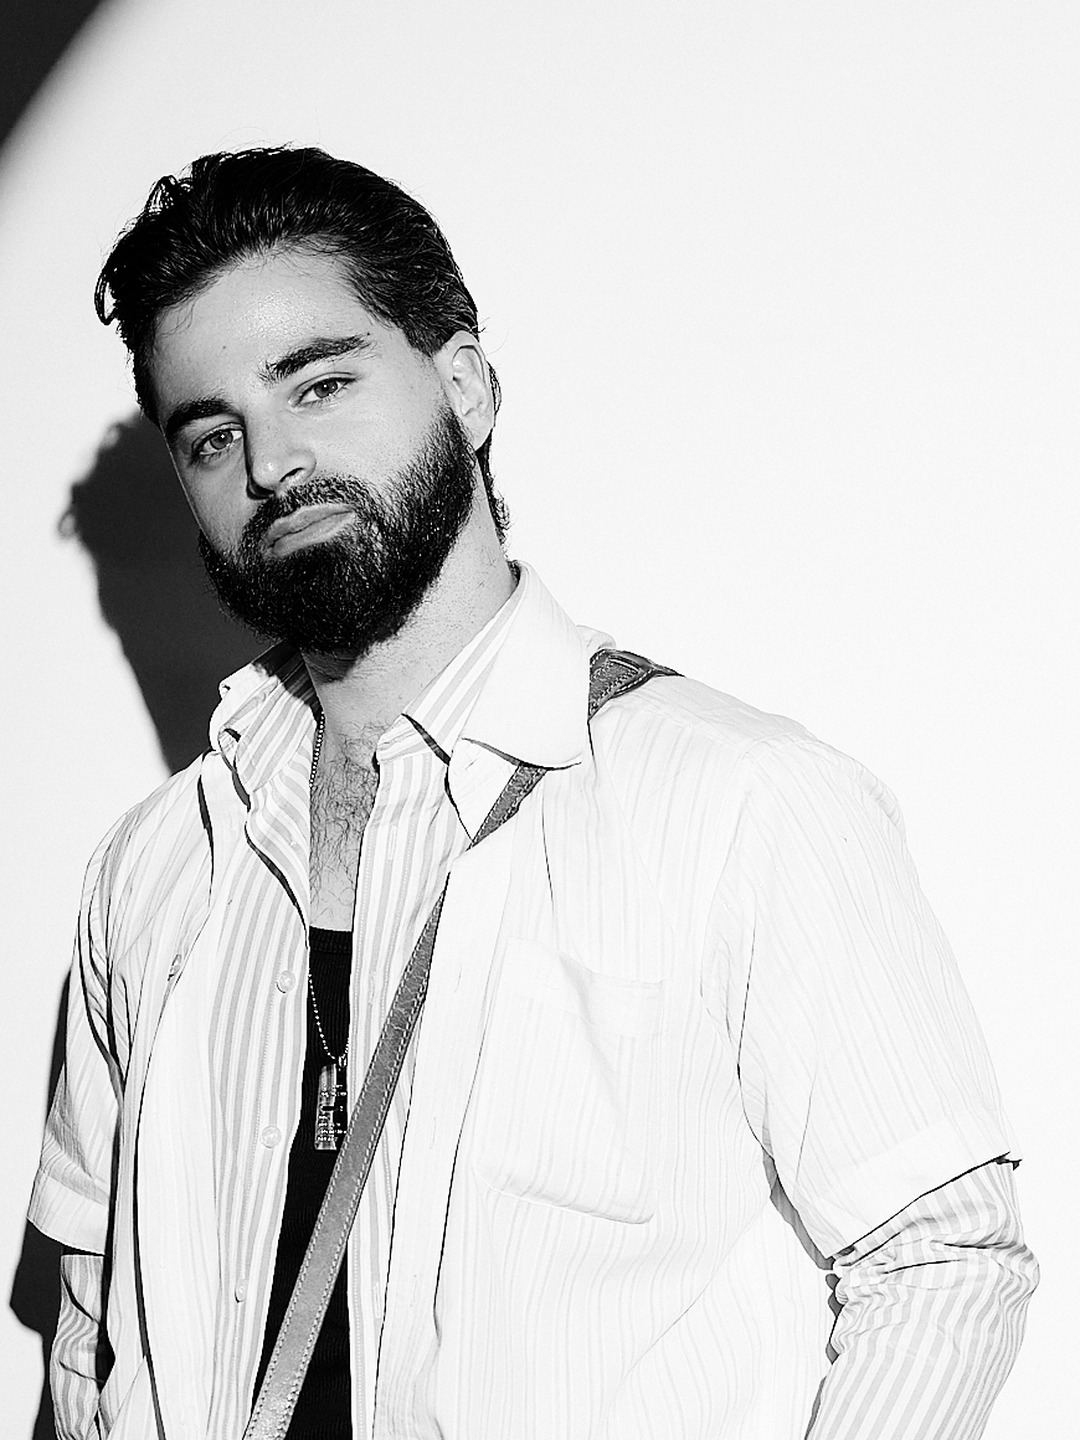
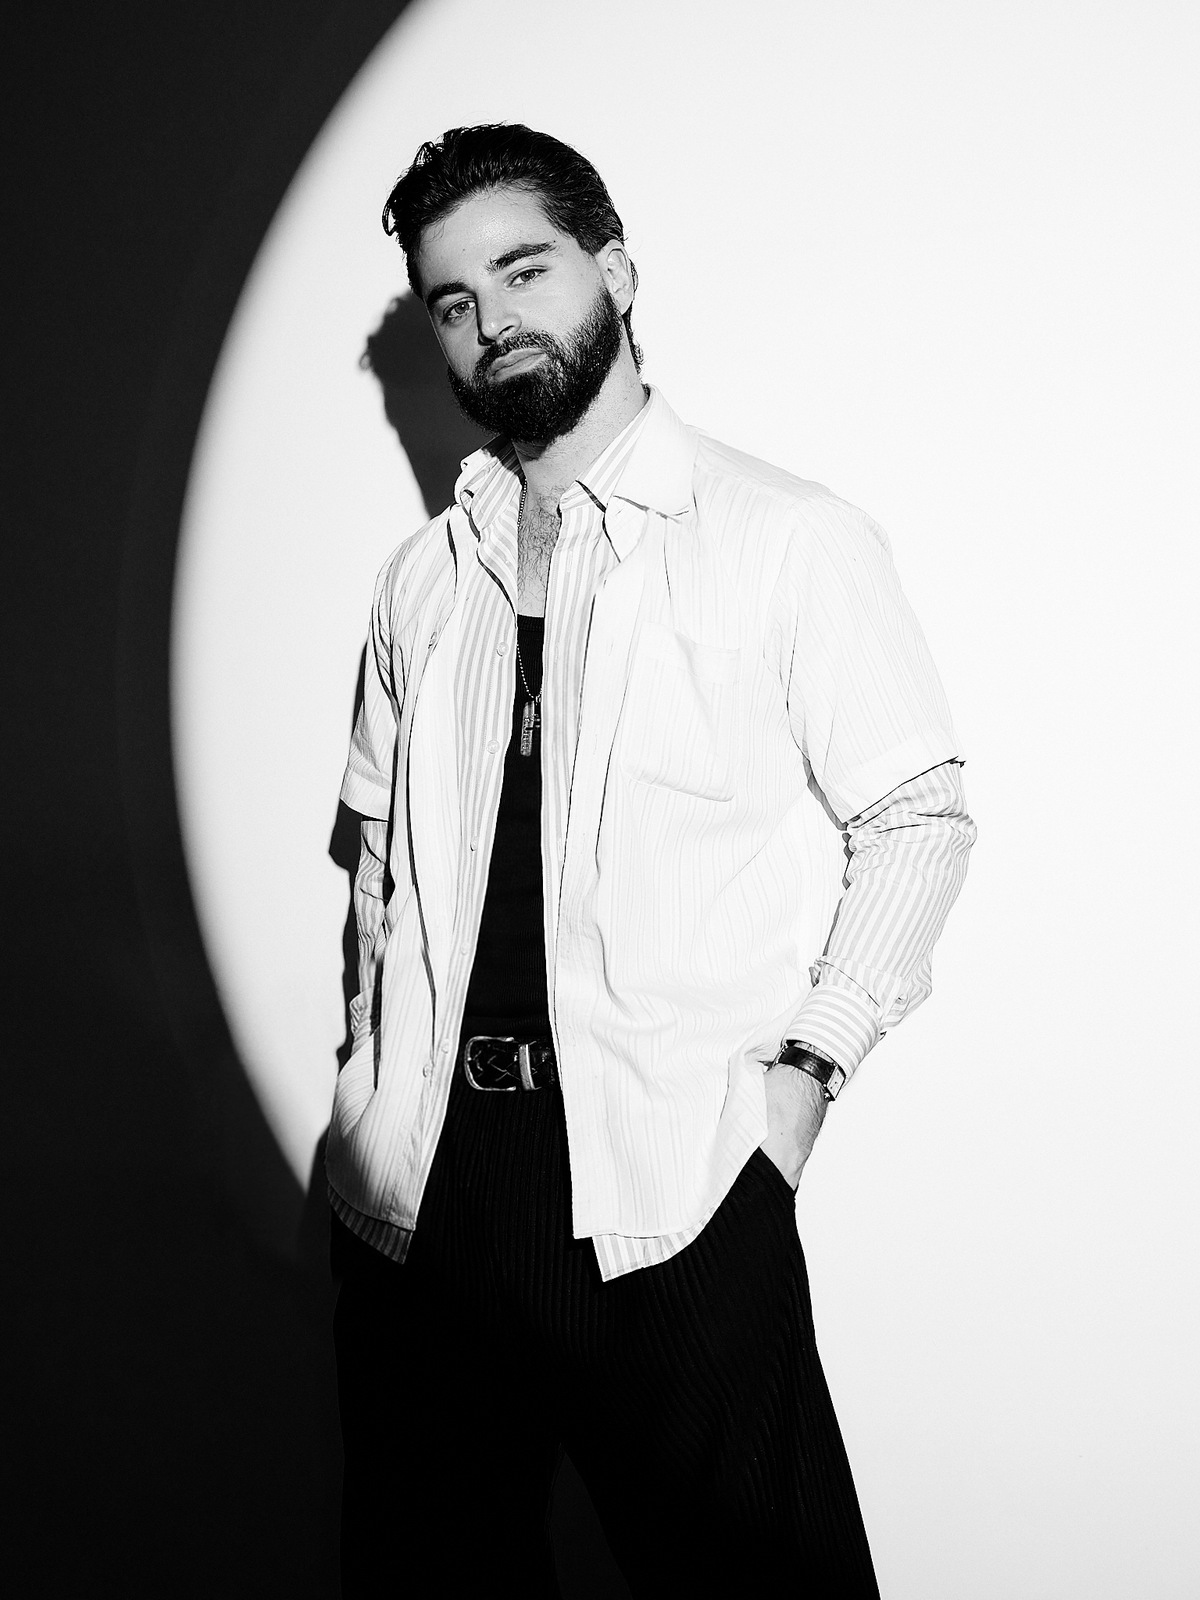
La maison : portrait de Pedro Tobia

diff --git a/fr/la-maison/index.html b/fr/la-maison/index.html
@@ -29,7 +29,7 @@
 <link rel="icon" href="../../assets/logo.svg?v=bad0aa28">
 <link rel="preload" href="../../assets/polices/source-sans-3-400-latin.woff2" as="font" type="font/woff2" crossorigin>
 <link rel="stylesheet" href="../../assets/polices.css?v=2d999d05">
-<link rel="stylesheet" href="../../assets/site.css?v=ae3f5584">
+<link rel="stylesheet" href="../../assets/site.css?v=fceecd6b">
 <script>document.documentElement.classList.add('js')</script>
 <script type="application/ld+json">{"@context": "https://schema.org", "@type": "BreadcrumbList", "itemListElement": [{"@type": "ListItem", "position": 1, "name": "DEGNA", "item": "https://degna.ca/fr/"}, {"@type": "ListItem", "position": 2, "name": "La maison", "item": "https://degna.ca/fr/la-maison/"}]}</script>
 </head>
@@ -53,6 +53,7 @@
 <section class="band band--tight">
   <div class="inner inner--narrow">
     <h1>DEGNA</h1>
+    <figure class="portrait"><img src="../../assets/media/pedro-portrait.jpg?v=02b47dc5" alt="Pedro Tobia, fondateur et directeur artistique de DEGNA" width="1200" height="1600" loading="eager"></figure>
     <div class="read" style="margin-top:1.2rem"><p>Pedro Tobia est directeur artistique pour plusieurs maisons de vêtement, dont la collection RADICE de Maison Godefroi, présentée au défilé L’Héritage à Montréal en septembre 2026. DEGNA est la maison qu’il a fondée pour exposer sa propre vision de la femme.</p><p>Une vision faite de collections intemporelles : des pièces qui suivent la femme qui les porte, pas la saison. La silhouette DEGNA part d’une définition de l’élégance, et de l’héritage que chaque femme laisse derrière elle, à chacun de ses passages. <em>Degna</em>, en italien, veut dire digne.</p></div>
     <blockquote class="citation"><p>Le style est le reflet de votre personnalité : notre silhouette dit qui nous sommes avant même de parler. J’aime l’idée de laisser une trace élégante, un héritage, partout où je passe et dans chacune de mes rencontres.</p><footer>Pedro Tobia, fondateur et directeur artistique</footer></blockquote>
     <div class="read"><p>Sur chaque pièce DEGNA, il y a une perle. C’est la touche d’élégance : le dernier geste, celui qu’on remarque sans qu’il s’impose. Une perle naît lentement, couche après couche, autour d’un simple grain : c’est l’image de l’héritage qu’une femme laisse derrière elle. La perle restera, de collection en collection : c’est le fil de la maison.</p><p>Série Un est taillée dans une même maille côtelée, à contrastes et boutons perle, en pièces pensées pour se porter ensemble.</p></div>

diff --git a/fr/robe-courte-maille-col-contraste/index.html b/fr/robe-courte-maille-col-contraste/index.html
@@ -30,7 +30,7 @@
 <link rel="preload" href="../../assets/polices/source-sans-3-400-latin.woff2" as="font" type="font/woff2" crossorigin>
 <link rel="preload" as="image" href="../../assets/media/front.jpg?v=0d828623" fetchpriority="high">
 <link rel="stylesheet" href="../../assets/polices.css?v=2d999d05">
-<link rel="stylesheet" href="../../assets/site.css?v=ae3f5584">
+<link rel="stylesheet" href="../../assets/site.css?v=fceecd6b">
 <script>document.documentElement.classList.add('js')</script>
 <script type="application/ld+json">{"@context": "https://schema.org", "@type": "BreadcrumbList", "itemListElement": [{"@type": "ListItem", "position": 1, "name": "DEGNA", "item": "https://degna.ca/fr/"}, {"@type": "ListItem", "position": 2, "name": "Robe courte en maille à col contrasté", "item": "https://degna.ca/fr/robe-courte-maille-col-contraste/"}]}</script>
 <script type="application/ld+json">{"@context": "https://schema.org", "@type": "Product", "name": "Robe courte en maille à col contrasté", "description": "Robe courte ajustée en maille noire, col pointu blanc, patte à boutons perle et jupe à plis couchés. La côte est composée de 87 % de rayonne et de 13 % de polyester, sans élasthanne : l’aisance vient de la côte elle-même. Près du corps à la poitrine et aux hanches, la jupe s’ouvre légèrement sous la ceinture blanche. Longueur courte : elle tombe à mi-cuisse.", "brand": {"@type": "Brand", "name": "DEGNA"}, "color": "Black / White", "material": "87% rayon, 13% polyester", "size": ["XS", "S", "M", "L", "XL"], "image": ["https://degna.ca/assets/media/front.jpg?v=0d828623", "https://degna.ca/assets/media/three-quarter.jpg?v=70482830", "https://degna.ca/assets/media/back.jpg?v=174fd360"], "offers": {"@type": "Offer", "url": "https://degna.ca/fr/robe-courte-maille-col-contraste/", "price": "495.00", "priceCurrency": "USD", "availability": "https://schema.org/InStock", "itemCondition": "https://schema.org/NewCondition", "shippingDetails": {"@type": "OfferShippingDetails", "shippingRate": {"@type": "MonetaryAmount", "value": "0", "currency": "USD"}, "shippingDestination": [{"@type": "DefinedRegion", "addressCountry": "US"}, {"@type": "DefinedRegion", "addressCountry": "CA"}]}, "hasMerchantReturnPolicy": {"@type": "MerchantReturnPolicy", "applicableCountry": ["US", "CA"], "returnPolicyCategory": "https://schema.org/MerchantReturnFiniteReturnWindow", "merchantReturnDays": 30, "returnFees": "https://schema.org/FreeReturn", "refundType": "https://schema.org/FullRefund", "returnMethod": "https://schema.org/ReturnByMail"}}}</script>

diff --git a/es/vestido-corto-punto-cuello-contraste/index.html b/es/vestido-corto-punto-cuello-contraste/index.html
@@ -30,7 +30,7 @@
 <link rel="preload" href="../../assets/polices/source-sans-3-400-latin.woff2" as="font" type="font/woff2" crossorigin>
 <link rel="preload" as="image" href="../../assets/media/front.jpg?v=0d828623" fetchpriority="high">
 <link rel="stylesheet" href="../../assets/polices.css?v=2d999d05">
-<link rel="stylesheet" href="../../assets/site.css?v=ae3f5584">
+<link rel="stylesheet" href="../../assets/site.css?v=fceecd6b">
 <script>document.documentElement.classList.add('js')</script>
 <script type="application/ld+json">{"@context": "https://schema.org", "@type": "BreadcrumbList", "itemListElement": [{"@type": "ListItem", "position": 1, "name": "DEGNA", "item": "https://degna.ca/es/"}, {"@type": "ListItem", "position": 2, "name": "Vestido corto de punto con cuello en contraste", "item": "https://degna.ca/es/vestido-corto-punto-cuello-contraste/"}]}</script>
 <script type="application/ld+json">{"@context": "https://schema.org", "@type": "Product", "name": "Vestido corto de punto con cuello en contraste", "description": "Vestido corto ajustado de punto negro, con cuello blanco en punta, tapeta de botones perla y falda de pliegues planos. El canalé es 87 % rayón y 13 % poliéster, sin elastano: la holgura viene del propio canalé. Ceñido en busto y cadera, la falda se abre ligeramente bajo la cintura blanca. Largo corto: cae a medio muslo.", "brand": {"@type": "Brand", "name": "DEGNA"}, "color": "Black / White", "material": "87% rayon, 13% polyester", "size": ["XS", "S", "M", "L", "XL"], "image": ["https://degna.ca/assets/media/front.jpg?v=0d828623", "https://degna.ca/assets/media/three-quarter.jpg?v=70482830", "https://degna.ca/assets/media/back.jpg?v=174fd360"], "offers": {"@type": "Offer", "url": "https://degna.ca/es/vestido-corto-punto-cuello-contraste/", "price": "495.00", "priceCurrency": "USD", "availability": "https://schema.org/InStock", "itemCondition": "https://schema.org/NewCondition", "shippingDetails": {"@type": "OfferShippingDetails", "shippingRate": {"@type": "MonetaryAmount", "value": "0", "currency": "USD"}, "shippingDestination": [{"@type": "DefinedRegion", "addressCountry": "US"}, {"@type": "DefinedRegion", "addressCountry": "CA"}]}, "hasMerchantReturnPolicy": {"@type": "MerchantReturnPolicy", "applicableCountry": ["US", "CA"], "returnPolicyCategory": "https://schema.org/MerchantReturnFiniteReturnWindow", "merchantReturnDays": 30, "returnFees": "https://schema.org/FreeReturn", "refundType": "https://schema.org/FullRefund", "returnMethod": "https://schema.org/ReturnByMail"}}}</script>

diff --git a/en/contrast-collar-knit-mini-dress/index.html b/en/contrast-collar-knit-mini-dress/index.html
@@ -30,7 +30,7 @@
 <link rel="preload" href="../../assets/polices/source-sans-3-400-latin.woff2" as="font" type="font/woff2" crossorigin>
 <link rel="preload" as="image" href="../../assets/media/front.jpg?v=0d828623" fetchpriority="high">
 <link rel="stylesheet" href="../../assets/polices.css?v=2d999d05">
-<link rel="stylesheet" href="../../assets/site.css?v=ae3f5584">
+<link rel="stylesheet" href="../../assets/site.css?v=fceecd6b">
 <script>document.documentElement.classList.add('js')</script>
 <script type="application/ld+json">{"@context": "https://schema.org", "@type": "BreadcrumbList", "itemListElement": [{"@type": "ListItem", "position": 1, "name": "DEGNA", "item": "https://degna.ca/en/"}, {"@type": "ListItem", "position": 2, "name": "Contrast-Collar Knit Mini Dress", "item": "https://degna.ca/en/contrast-collar-knit-mini-dress/"}]}</script>
 <script type="application/ld+json">{"@context": "https://schema.org", "@type": "Product", "name": "Contrast-Collar Knit Mini Dress", "description": "A fitted black knit mini dress with a white pointed collar, a pearl-button placket and a knife-pleated skirt. The rib is 87% rayon and 13% polyester, with no elastane: the give comes from the rib itself. Close at the bust and hip, the skirt opens slightly below the white waistband. Short length: it falls at mid-thigh.", "brand": {"@type": "Brand", "name": "DEGNA"}, "color": "Black / White", "material": "87% rayon, 13% polyester", "size": ["XS", "S", "M", "L", "XL"], "image": ["https://degna.ca/assets/media/front.jpg?v=0d828623", "https://degna.ca/assets/media/three-quarter.jpg?v=70482830", "https://degna.ca/assets/media/back.jpg?v=174fd360"], "offers": {"@type": "Offer", "url": "https://degna.ca/en/contrast-collar-knit-mini-dress/", "price": "495.00", "priceCurrency": "USD", "availability": "https://schema.org/InStock", "itemCondition": "https://schema.org/NewCondition", "shippingDetails": {"@type": "OfferShippingDetails", "shippingRate": {"@type": "MonetaryAmount", "value": "0", "currency": "USD"}, "shippingDestination": [{"@type": "DefinedRegion", "addressCountry": "US"}, {"@type": "DefinedRegion", "addressCountry": "CA"}]}, "hasMerchantReturnPolicy": {"@type": "MerchantReturnPolicy", "applicableCountry": ["US", "CA"], "returnPolicyCategory": "https://schema.org/MerchantReturnFiniteReturnWindow", "merchantReturnDays": 30, "returnFees": "https://schema.org/FreeReturn", "refundType": "https://schema.org/FullRefund", "returnMethod": "https://schema.org/ReturnByMail"}}}</script>

diff --git a/es/la-casa/index.html b/es/la-casa/index.html
@@ -29,7 +29,7 @@
 <link rel="icon" href="../../assets/logo.svg?v=bad0aa28">
 <link rel="preload" href="../../assets/polices/source-sans-3-400-latin.woff2" as="font" type="font/woff2" crossorigin>
 <link rel="stylesheet" href="../../assets/polices.css?v=2d999d05">
-<link rel="stylesheet" href="../../assets/site.css?v=ae3f5584">
+<link rel="stylesheet" href="../../assets/site.css?v=fceecd6b">
 <script>document.documentElement.classList.add('js')</script>
 <script type="application/ld+json">{"@context": "https://schema.org", "@type": "BreadcrumbList", "itemListElement": [{"@type": "ListItem", "position": 1, "name": "DEGNA", "item": "https://degna.ca/es/"}, {"@type": "ListItem", "position": 2, "name": "La casa", "item": "https://degna.ca/es/la-casa/"}]}</script>
 </head>
@@ -53,6 +53,7 @@
 <section class="band band--tight">
   <div class="inner inner--narrow">
     <h1>DEGNA</h1>
+    <figure class="portrait"><img src="../../assets/media/pedro-portrait.jpg?v=02b47dc5" alt="Pedro Tobia, fundador y director artístico de DEGNA" width="1200" height="1600" loading="eager"></figure>
     <div class="read" style="margin-top:1.2rem"><p>Pedro Tobia es director artístico de varias casas de moda, entre ellas la colección RADICE de Maison Godefroi, presentada en el desfile Héritage en Montreal en septiembre de 2026. DEGNA es la casa que fundó para mostrar su propia visión de la mujer.</p><p>Una visión hecha de colecciones atemporales: piezas que siguen a la mujer que las lleva, no a la temporada. La silueta DEGNA parte de una idea de la elegancia, y del legado que cada mujer deja tras de sí, en cada uno de sus pasos. <em>Degna</em>, en italiano, significa digna.</p></div>
     <blockquote class="citation"><p>El estilo es el reflejo de su personalidad: nuestra silueta dice quiénes somos antes de hablar. Me gusta la idea de dejar una huella elegante, un legado, allí donde paso y en cada uno de mis encuentros.</p><footer>Pedro Tobia, fundador y director artístico</footer></blockquote>
     <div class="read"><p>En cada pieza DEGNA hay una perla. Es el toque de elegancia: el último gesto, el que se nota sin imponerse. Una perla nace despacio, capa a capa, alrededor de un simple grano: es la imagen del legado que una mujer deja tras de sí. La perla permanecerá, de colección en colección: es el hilo de la casa.</p><p>Série Un está cortada en un mismo punto acanalado, con contrastes y botones perla, en piezas pensadas para llevarse juntas.</p></div>

diff --git a/en/about/index.html b/en/about/index.html
@@ -29,7 +29,7 @@
 <link rel="icon" href="../../assets/logo.svg?v=bad0aa28">
 <link rel="preload" href="../../assets/polices/source-sans-3-400-latin.woff2" as="font" type="font/woff2" crossorigin>
 <link rel="stylesheet" href="../../assets/polices.css?v=2d999d05">
-<link rel="stylesheet" href="../../assets/site.css?v=ae3f5584">
+<link rel="stylesheet" href="../../assets/site.css?v=fceecd6b">
 <script>document.documentElement.classList.add('js')</script>
 <script type="application/ld+json">{"@context": "https://schema.org", "@type": "BreadcrumbList", "itemListElement": [{"@type": "ListItem", "position": 1, "name": "DEGNA", "item": "https://degna.ca/en/"}, {"@type": "ListItem", "position": 2, "name": "About", "item": "https://degna.ca/en/about/"}]}</script>
 </head>
@@ -53,6 +53,7 @@
 <section class="band band--tight">
   <div class="inner inner--narrow">
     <h1>DEGNA</h1>
+    <figure class="portrait"><img src="../../assets/media/pedro-portrait.jpg?v=02b47dc5" alt="Pedro Tobia, founder and artistic director of DEGNA" width="1200" height="1600" loading="eager"></figure>
     <div class="read" style="margin-top:1.2rem"><p>Pedro Tobia is an artistic director for several clothing houses, among them the RADICE collection of Maison Godefroi, shown at the Héritage runway show in Montréal in September 2026. DEGNA is the house he founded to set out his own vision of women.</p><p>A vision made of timeless collections: pieces that follow the woman who wears them, not the season. The DEGNA silhouette starts from one idea of elegance, and of the heritage every woman leaves behind her, wherever she goes. <em>Degna</em>, in Italian, means worthy.</p></div>
     <blockquote class="citation"><p>Style is the reflection of your personality: our silhouette says who we are before we speak. I like the idea of leaving an elegant trace, a heritage, wherever I go and in every encounter.</p><footer>Pedro Tobia, founder and artistic director</footer></blockquote>
     <div class="read"><p>On every DEGNA piece there is a pearl. It is the touch of elegance: the last gesture, the one you notice without it ever insisting. A pearl is born slowly, layer by layer, around a single grain: it is the image of the heritage a woman leaves behind her. The pearl will stay, from one collection to the next: it is the thread of the house.</p><p>Série Un is cut in one rib knit, with contrast trims and pearl buttons, in pieces designed to be worn together.</p></div>

diff --git a/en/index.html b/en/index.html
@@ -30,7 +30,7 @@
 <link rel="preload" href="../assets/polices/source-sans-3-400-latin.woff2" as="font" type="font/woff2" crossorigin>
 <link rel="preload" as="image" href="../assets/media/walk-loop-poster.jpg?v=96065d19" fetchpriority="high">
 <link rel="stylesheet" href="../assets/polices.css?v=2d999d05">
-<link rel="stylesheet" href="../assets/site.css?v=ae3f5584">
+<link rel="stylesheet" href="../assets/site.css?v=fceecd6b">
 <script>document.documentElement.classList.add('js')</script>
 <script type="application/ld+json">{"@context": "https://schema.org", "@type": "Organization", "name": "DEGNA", "url": "https://degna.ca/", "logo": "https://degna.ca/assets/logo.svg?v=bad0aa28", "email": "hello@degna.ca", "foundingLocation": {"@type": "Place", "name": "Montréal, Québec, Canada"}, "founder": {"@type": "Person", "name": "Pedro Tobia", "jobTitle": "Designer"}}</script>
 </head>

diff --git a/es/index.html b/es/index.html
@@ -30,7 +30,7 @@
 <link rel="preload" href="../assets/polices/source-sans-3-400-latin.woff2" as="font" type="font/woff2" crossorigin>
 <link rel="preload" as="image" href="../assets/media/walk-loop-poster.jpg?v=96065d19" fetchpriority="high">
 <link rel="stylesheet" href="../assets/polices.css?v=2d999d05">
-<link rel="stylesheet" href="../assets/site.css?v=ae3f5584">
+<link rel="stylesheet" href="../assets/site.css?v=fceecd6b">
 <script>document.documentElement.classList.add('js')</script>
 <script type="application/ld+json">{"@context": "https://schema.org", "@type": "Organization", "name": "DEGNA", "url": "https://degna.ca/", "logo": "https://degna.ca/assets/logo.svg?v=bad0aa28", "email": "hello@degna.ca", "foundingLocation": {"@type": "Place", "name": "Montréal, Québec, Canada"}, "founder": {"@type": "Person", "name": "Pedro Tobia", "jobTitle": "Designer"}}</script>
 </head>

diff --git a/fr/index.html b/fr/index.html
@@ -30,7 +30,7 @@
 <link rel="preload" href="../assets/polices/source-sans-3-400-latin.woff2" as="font" type="font/woff2" crossorigin>
 <link rel="preload" as="image" href="../assets/media/walk-loop-poster.jpg?v=96065d19" fetchpriority="high">
 <link rel="stylesheet" href="../assets/polices.css?v=2d999d05">
-<link rel="stylesheet" href="../assets/site.css?v=ae3f5584">
+<link rel="stylesheet" href="../assets/site.css?v=fceecd6b">
 <script>document.documentElement.classList.add('js')</script>
 <script type="application/ld+json">{"@context": "https://schema.org", "@type": "Organization", "name": "DEGNA", "url": "https://degna.ca/", "logo": "https://degna.ca/assets/logo.svg?v=bad0aa28", "email": "hello@degna.ca", "foundingLocation": {"@type": "Place", "name": "Montréal, Québec, Canada"}, "founder": {"@type": "Person", "name": "Pedro Tobia", "jobTitle": "Designer"}}</script>
 </head>

diff --git a/fr/polo-maille-manches-courtes/index.html b/fr/polo-maille-manches-courtes/index.html
@@ -31,7 +31,7 @@
 <link rel="preload" href="../../assets/polices/source-sans-3-400-latin.woff2" as="font" type="font/woff2" crossorigin>
 <link rel="preload" as="image" href="../../assets/media/piece-polo.jpg?v=7ce3b170" fetchpriority="high">
 <link rel="stylesheet" href="../../assets/polices.css?v=2d999d05">
-<link rel="stylesheet" href="../../assets/site.css?v=ae3f5584">
+<link rel="stylesheet" href="../../assets/site.css?v=fceecd6b">
 <script>document.documentElement.classList.add('js')</script>
 <script type="application/ld+json">{"@context": "https://schema.org", "@type": "BreadcrumbList", "itemListElement": [{"@type": "ListItem", "position": 1, "name": "DEGNA", "item": "https://degna.ca/fr/"}, {"@type": "ListItem", "position": 2, "name": "Polo en maille à manches courtes", "item": "https://degna.ca/fr/polo-maille-manches-courtes/"}]}</script>
 </head>

diff --git a/fr/jupe-courte-plissee-maille/index.html b/fr/jupe-courte-plissee-maille/index.html
@@ -31,7 +31,7 @@
 <link rel="preload" href="../../assets/polices/source-sans-3-400-latin.woff2" as="font" type="font/woff2" crossorigin>
 <link rel="preload" as="image" href="../../assets/media/piece-jupe.jpg?v=d557aec6" fetchpriority="high">
 <link rel="stylesheet" href="../../assets/polices.css?v=2d999d05">
-<link rel="stylesheet" href="../../assets/site.css?v=ae3f5584">
+<link rel="stylesheet" href="../../assets/site.css?v=fceecd6b">
 <script>document.documentElement.classList.add('js')</script>
 <script type="application/ld+json">{"@context": "https://schema.org", "@type": "BreadcrumbList", "itemListElement": [{"@type": "ListItem", "position": 1, "name": "DEGNA", "item": "https://degna.ca/fr/"}, {"@type": "ListItem", "position": 2, "name": "Jupe courte plissée en maille", "item": "https://degna.ca/fr/jupe-courte-plissee-maille/"}]}</script>
 </head>

diff --git a/es/falda-corta-plisada-punto/index.html b/es/falda-corta-plisada-punto/index.html
@@ -31,7 +31,7 @@
 <link rel="preload" href="../../assets/polices/source-sans-3-400-latin.woff2" as="font" type="font/woff2" crossorigin>
 <link rel="preload" as="image" href="../../assets/media/piece-jupe.jpg?v=d557aec6" fetchpriority="high">
 <link rel="stylesheet" href="../../assets/polices.css?v=2d999d05">
-<link rel="stylesheet" href="../../assets/site.css?v=ae3f5584">
+<link rel="stylesheet" href="../../assets/site.css?v=fceecd6b">
 <script>document.documentElement.classList.add('js')</script>
 <script type="application/ld+json">{"@context": "https://schema.org", "@type": "BreadcrumbList", "itemListElement": [{"@type": "ListItem", "position": 1, "name": "DEGNA", "item": "https://degna.ca/es/"}, {"@type": "ListItem", "position": 2, "name": "Falda corta plisada de punto", "item": "https://degna.ca/es/falda-corta-plisada-punto/"}]}</script>
 </head>
